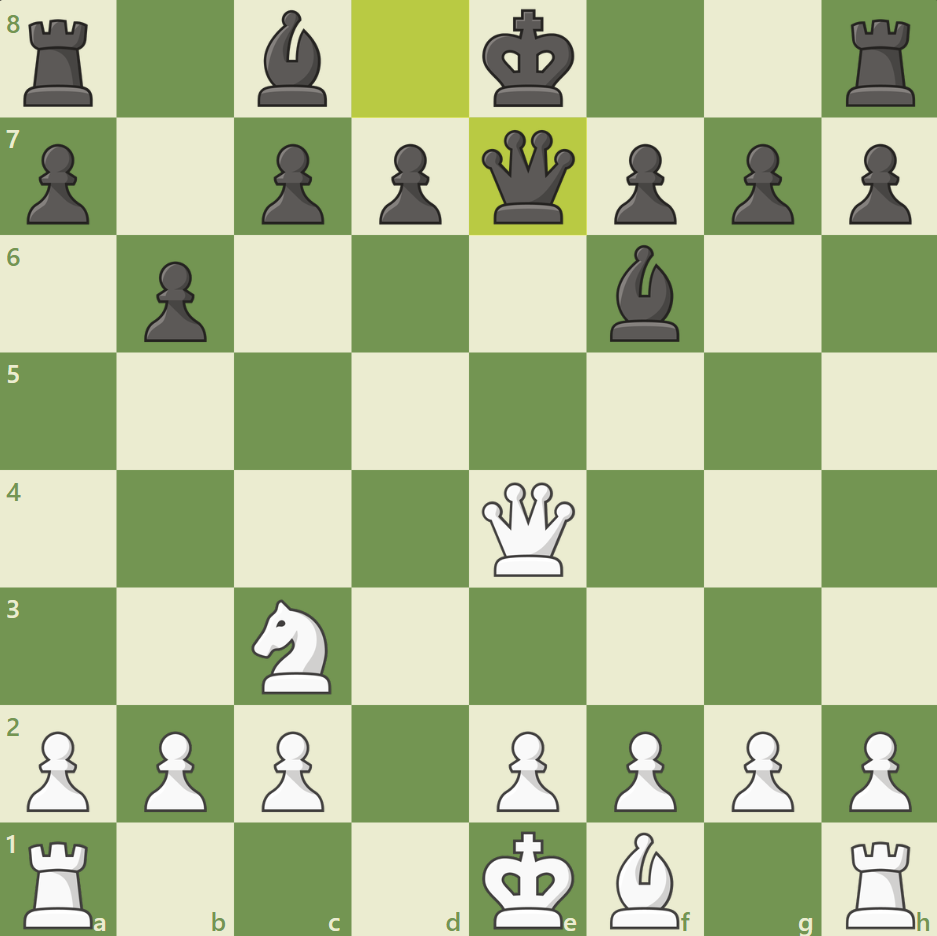
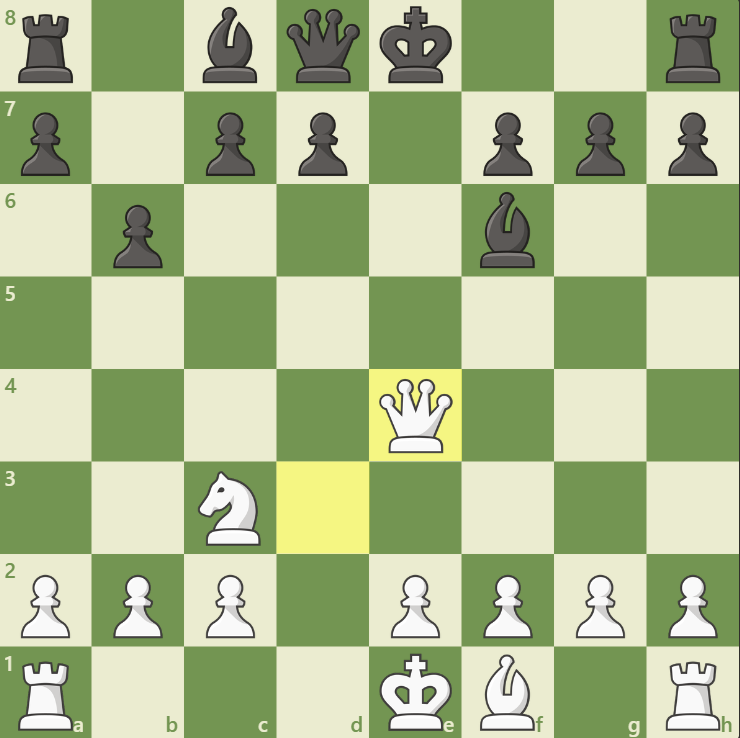
Chess project

diff --git a/JS/puzzles.js b/JS/puzzles.js
@@ -1,41 +1,86 @@
 let puzzles = [
 {
-    photo: "../images/puzzle1page1.png",
-    answer: "qe4+"
+    photo1: "../images/puzzle1page1.png",
+    photo2: "../images/puzzle1page2.png",
+    photo3: "../images/puzzle1page3.png",
+    photo4: "../images/puzzle1page4.png",
+    answer1: "qe4+",
+    answer2: "qxa8"
 },
 {
-    photo: "../images/puzzle2page1.png",
-    answer: "bb5"
+    photo1: "../images/puzzle2page1.png",
+    photo2: "../images/puzzle2page2.png",
+    photo3: "../images/puzzle2page3.png",
+    photo4: "../images/puzzle2page4.png",
+    answer1: "e5+",
+    answer2: "exf6",
 },
 {
-    photo: "../images/puzzle3page1.png",
-    answer: ""
+    photo1: "../images/puzzle3page1.png",
+    photo2: "../images/puzzle3page2.png",
+    photo3: "../images/puzzle3page3.png",
+    photo4: "../images/puzzle3page4.png",
+    answer1: "ng6",
+    answer2: "nxf8",
 },
 {
-    photo: "../images/puzzle4page1.png",
-    answer: ""
+    photo1: "../images/puzzle4page1.png",
+    photo2: "../images/puzzle4page2.png",
+    photo3: "../images/puzzle4page3.png",
+    photo4: "../images/puzzle4page4.png",
+    answer1: "nf6+",
+    answer2: "qxd8"
 },
 {
-    photo: "../images/puzzle5page1.png",
-    answer: ""
+    photo1: "../images/puzzle5page1.png",
+    photo2: "../images/puzzle5page2.png",
+    photo3: "../images/puzzle5page3.png",
+    photo4: "../images/puzzle5page4.png",
+    answer1: "rd8",
+    answer2: "qxe6"
 },
 {
-    photo: "../images/puzzle6page1.png",
-    answer: ""
+    photo1: "../images/puzzle6page1.png",
+    photo2: "../images/puzzle6page2.png",
+    photo3: "../images/puzzle6page3.png",
+    photo4: "../images/puzzle6page4.png",
+    answer1: "ne7+",
+    answer2: "nxg6"
 },
 {
-    photo: "../images/puzzle7page1.png",
-    answer: ""
+    photo1: "../images/puzzle7page1.png",
+    photo2: "../images/puzzle7page2.png",
+    photo3: "../images/puzzle7page3.png",
+    photo4: "../images/puzzle7page4.png",
+    answer1: "ne6+",
+    answer2: "nxc5"
 },
 ]
 const today = new Date()
 const index = today.getDate() % puzzles.length;
-let puzzle = puzzles[index]
-console.log(index);
+const puzzle = puzzles[index]
 
 let image = document.getElementById("image")
-let input = document.getElementById("answer")
-console.log(image);
-console.log(puzzle.photo);
+let input = document.querySelector("#answer")
+let checkBtn = document.getElementById("checkBtn")
 
-image.style.backgroundImage = `url(${puzzle.photo})`
+image.style.backgroundImage = `url(${puzzle.photo1})`
+let flag = true
+
+
+checkBtn.addEventListener("click", ()=>{
+    let answer = input.value.toLowerCase()
+    if (flag){
+        if (answer == puzzle.answer1){
+            setTimeout(() => {
+                image.style.backgroundImage = `url(${puzzle.photo3})`
+            }, 2000);
+            image.style.backgroundImage = `url(${puzzle.photo2})`
+            flag = false
+        }
+    }else{
+        if (answer == puzzle.answer2){
+            image.style.backgroundImage = `url(${puzzle.photo4})`
+        }
+    }
+});

diff --git a/index.html b/index.html
@@ -1,5 +1,5 @@
 <!DOCTYPE html>
-<html lang="az">
+<html>
     <head>
         <meta name="viewport" content="width=device-width, initial-scale=1.0">
         <title>Chess</title>
